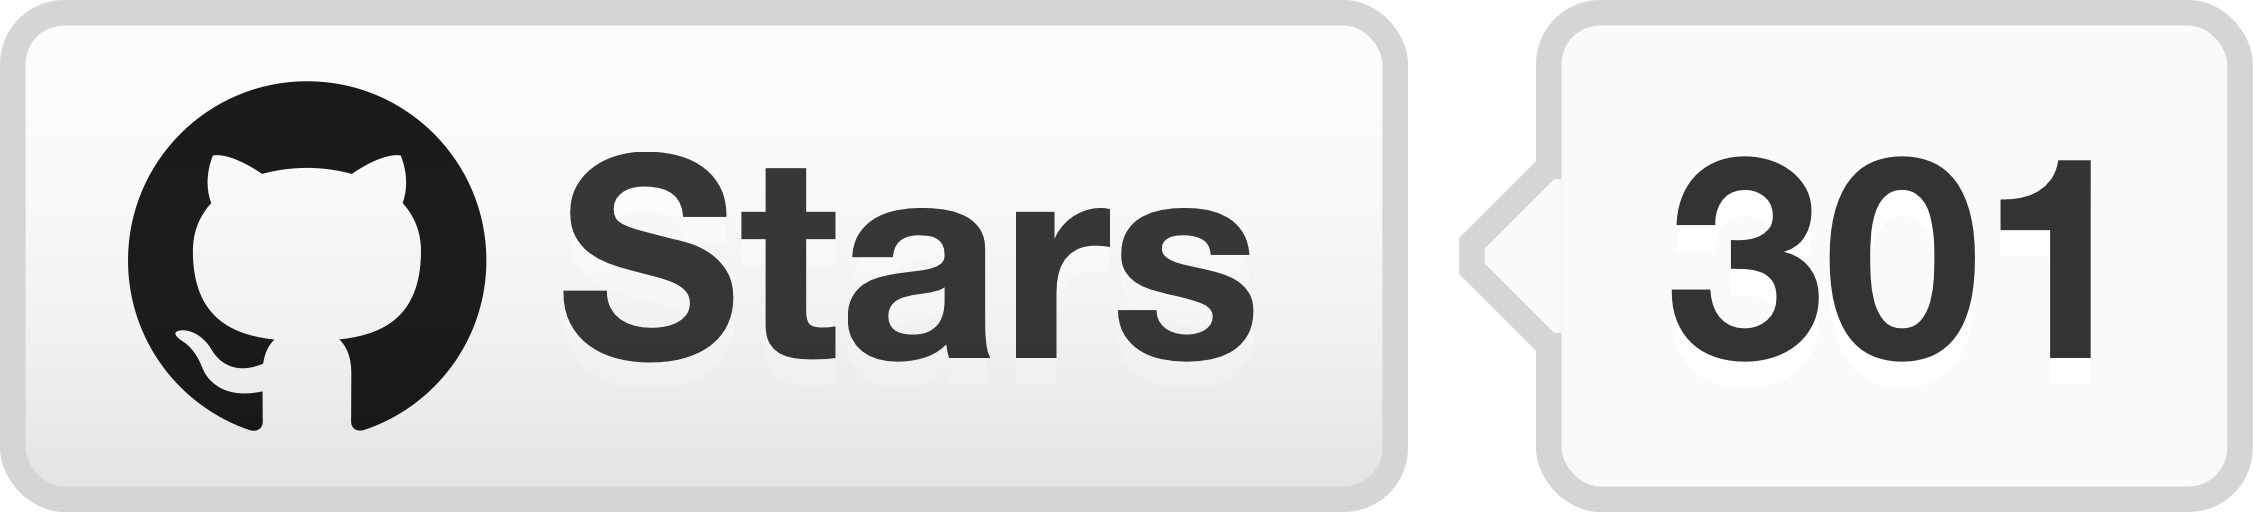
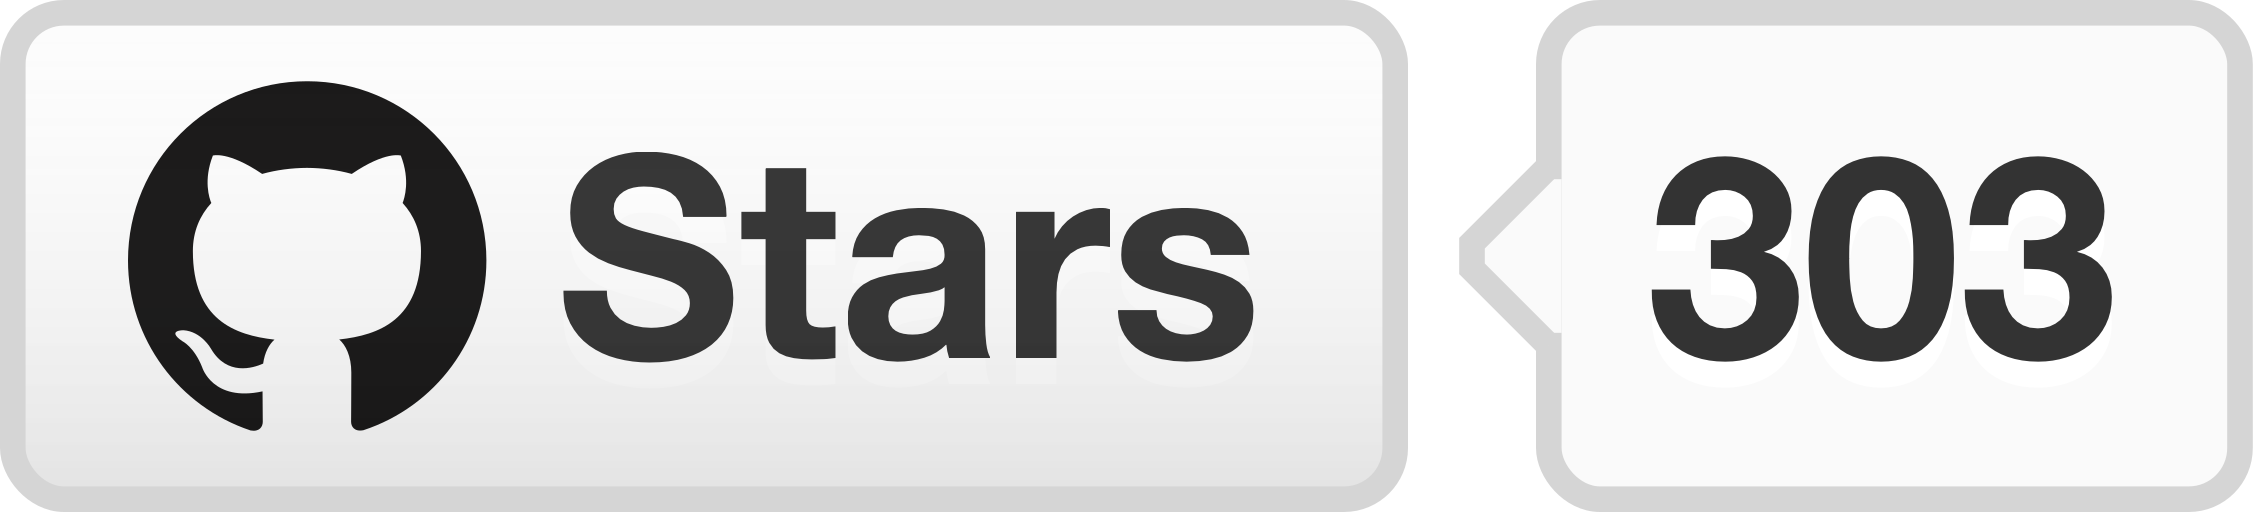
added new pngs

Changed region(s): [[0.7146, 0.2812, 0.9632, 0.7188]]

diff --git a/themes/myacademic/layouts/partials/widgets/about.html b/themes/myacademic/layouts/partials/widgets/about.html
@@ -89,7 +89,7 @@
 
     <!-- {{ $person_page.Content}} -->
     <p>
-      Gordon Qian is a Senior Research Scientist at Snap Inc. with hands-on experience in generative models across images, video, and 3D. He is a member of the video generation team, where he works on pretraining and post-training for 5B to 30B VLM-diffusion models. Previously, he served as tech lead for personalized generation, building end-to-end systems spanning large-scale data curation, model post-training, model evaluation, and product deployment. He earned his Ph.D. in Computer Science from KAUST, advised by Prof. Bernard Ghanem.
+      Gordon Guocheng Qian is a Senior Research Scientist at Snap Inc. with hands-on experience in generative models across images, video, and 3D. He is a member of the video generation team, where he works on pretraining and post-training for 5B to 30B VLM-diffusion models. Previously, he served as tech lead for personalized generation, building end-to-end systems spanning large-scale data curation, model post-training, model evaluation, and product deployment. He earned his Ph.D. in Computer Science from KAUST, advised by Prof. Bernard Ghanem.
       He has authored 20+ top-tier publications with 3,500+ citations, filed six patents, and shipped three research innovations to Snapchat products, including Dreams, EasyLens, and AI Lens, impacting 900M+ monthly active users.
       His representative works include <a target="_blank" href="https://arxiv.org/abs/2206.04670">PointNeXt</a> (NeurIPS, 1.2K+ citations, 1K+ GitHub stars), <a target="_blank" href="https://guochengqian.github.io/project/magic123/">Magic123</a> (ICLR, 450+ citations, 1.6K+ GitHub stars), and <a target="_blank" href="https://snap-research.github.io/Omni-ID/">Omni-ID</a> (CVPR, product integrated, patent filed). His research interests include streamable and unified multimodal understanding and generation. He serves as an Area Chair for ICLR 2026.
       <br>

diff --git a/update_cites.py b/update_cites.py
@@ -10,18 +10,70 @@ https://github.com/WenjieDu/Google_Scholar_Badge_Generator/tree/main
 from __future__ import annotations
 
 import csv
+import ctypes.util
 import os
 from pathlib import Path
 
 import gsbg  # Google Scholar Badge Generator
 import requests  # type: ignore
-import cairosvg  # type: ignore
+
+
+def _prefer_homebrew_cairo() -> None:
+    """
+    Help cairocffi find Homebrew's Cairo dylib on macOS.
+
+    Apple's Command Line Tools Python does not always search /opt/homebrew/lib
+    or /usr/local/lib via ctypes.util.find_library().
+    """
+    original_find_library = ctypes.util.find_library
+    cairo_paths = (
+        Path("/opt/homebrew/lib/libcairo.2.dylib"),
+        Path("/usr/local/lib/libcairo.2.dylib"),
+    )
+
+    def find_library(name: str) -> str | None:
+        if name in {"cairo", "cairo-2", "libcairo-2"}:
+            for path in cairo_paths:
+                if path.exists():
+                    return str(path)
+        return original_find_library(name)
+
+    ctypes.util.find_library = find_library
+
+
+_original_find_library = ctypes.util.find_library
+_prefer_homebrew_cairo()
+try:
+    import cairosvg  # type: ignore
+except Exception:
+    cairosvg = None
+finally:
+    ctypes.util.find_library = _original_find_library
 
 ROOT = Path(__file__).resolve().parent
 # Source-of-truth CSV exposed on the website for download.
 CSV_PATH = ROOT / "static" / "files" / "publications.csv"
 # Directory in the website where we cache rendered badge PNGs.
 BADGE_DIR = ROOT / "static" / "img" / "pub"
+
+# Scholar links for publications that are missing this field in the CSV.
+GOOGLE_SCHOLAR_LINKS_BY_SLUG = {
+    "pami2021deepgcns": (
+        "https://scholar.google.com/citations?view_op=view_citation&hl=en"
+        "&user=DUDaxg4AAAAJ&pagesize=100"
+        "&citation_for_view=DUDaxg4AAAAJ:9yKSN-GCB0IC"
+    ),
+}
+
+
+def svg_to_png(svg_bytes: bytes, output_height: int = 512) -> bytes:
+    """Render SVG bytes to PNG with CairoSVG."""
+    if cairosvg is None:
+        raise RuntimeError(
+            "Cannot render SVG badges: CairoSVG cannot load native Cairo. "
+            "Install it with `brew install cairo` on macOS."
+        )
+    return cairosvg.svg2png(bytestring=svg_bytes, output_height=output_height)
 
 
 def github_stars_badge(repo: str) -> str:
@@ -106,6 +158,7 @@ def main() -> None:
 
             github_repo = (row.get("github_repo") or "").strip()
             scholar_link = (row.get("google_scholar_link") or "").strip()
+            scholar_link = scholar_link or GOOGLE_SCHOLAR_LINKS_BY_SLUG.get(slug, "")
             prev_cites = row.get("google_scholar_cites") or ""
             prev_stars = row.get("github_stars") or ""
 
@@ -139,7 +192,7 @@ def main() -> None:
                 resp.raise_for_status()
                 local_name = f"{slug}_cites.png"
                 svg_bytes = resp.content
-                png_bytes = cairosvg.svg2png(bytestring=svg_bytes, output_height=512)
+                png_bytes = svg_to_png(svg_bytes, output_height=512)
                 (BADGE_DIR / local_name).write_bytes(png_bytes)
                 badge_local = f"/img/pub/{local_name}"
                 
@@ -152,7 +205,7 @@ def main() -> None:
                 resp.raise_for_status()
                 local_name_flat = f"{slug}_cites_flat.png"
                 svg_bytes = resp.content
-                png_bytes = cairosvg.svg2png(bytestring=svg_bytes, output_height=512)
+                png_bytes = svg_to_png(svg_bytes, output_height=512)
                 (BADGE_DIR / local_name_flat).write_bytes(png_bytes)
                 badge_local_flat = f"/img/pub/{local_name_flat}"
 
@@ -170,7 +223,7 @@ def main() -> None:
                 resp.raise_for_status()
                 local_name = f"{slug}_stars.png"
                 svg_bytes = resp.content
-                png_bytes = cairosvg.svg2png(bytestring=svg_bytes, output_height=512)
+                png_bytes = svg_to_png(svg_bytes, output_height=512)
                 (BADGE_DIR / local_name).write_bytes(png_bytes)
                 stars_local = f"/img/pub/{local_name}"
                 
@@ -183,7 +236,7 @@ def main() -> None:
                 resp.raise_for_status()
                 local_name_flat = f"{slug}_stars_flat.png"
                 svg_bytes = resp.content
-                png_bytes = cairosvg.svg2png(bytestring=svg_bytes, output_height=512)
+                png_bytes = svg_to_png(svg_bytes, output_height=512)
                 (BADGE_DIR / local_name_flat).write_bytes(png_bytes)
                 stars_local_flat = f"/img/pub/{local_name_flat}"
 
@@ -191,6 +244,7 @@ def main() -> None:
             # Update row fields.
             row["github_stars"] = str(stars_count or "")
             row["github_stars_badge"] = stars_url
+            row["google_scholar_link"] = scholar_link
             row["google_scholar_cites"] = str(cites_value or "")
             row["google_scholar_badge_url"] = badge_url
             row["google_scholar_badge_local"] = badge_local
@@ -208,12 +262,10 @@ def main() -> None:
             rows.append(row)
 
     with CSV_PATH.open("w", newline="", encoding="utf-8") as f:
-        writer = csv.DictWriter(f, fieldnames=fieldnames)
+        writer = csv.DictWriter(f, fieldnames=fieldnames, lineterminator="\n")
         writer.writeheader()
         writer.writerows(rows)
 
 
 if __name__ == "__main__":
     main()
-
-

diff --git a/content/authors/admin/_index.md b/content/authors/admin/_index.md
@@ -1,7 +1,7 @@
 ---
 
 # Display name
-name: Gordon (Guocheng) Qian
+name: Gordon Guocheng Qian
 namecn: 钱国成
 
 # # Username (this should match the folder name)
@@ -29,7 +29,7 @@ address:
   country: United States
 
 # Short bio (displayed in user profile at end of posts)
-bio: Guocheng Qian (Gordon) is a Senior Research Scientist at Snap Inc. working on generative models across image, video, and 3D.
+bio: Gordon Guocheng Qian is a Senior Research Scientist at Snap Inc. working on generative models across image, video, and 3D.
 
 education:
   courses:

diff --git a/static/posts/qqq-vs-spy/post.md b/static/posts/qqq-vs-spy/post.md
@@ -1,0 +1,14 @@
+# Twitter post: QQQ vs SPY DCA backtest
+
+**Tweet (attach chart.png):**
+
+Should you DCA into QQQ or SPY? I backtested $10k/month using real dividend-adjusted data, 2000–2026.
+
+QQQ won at every start year (2000/05/10/15/20): IRR 19.3%/yr vs 14.5%, final wealth 1.2–2.0x of SPY.
+
+The catch: the entire edge comes from post-2010. In 2000–2009 QQQ did -6.9%/yr vs SPY's -1.1%.
+
+Code + data: github.com/guochengqian/qqq-vs-spy
+
+---
+*~270 chars with the URL counted as 23. Chart: chart.png in this folder.*

diff --git a/content/publication/siga2025composeme/index.md b/content/publication/siga2025composeme/index.md
@@ -6,13 +6,13 @@ draft = false
 
 # Authors. Comma separated list, e.g. ["Bob Smith", "__**David Jones**__"].
 authors = [
-"__**Guocheng Gordon Qian**__", 
-"Daniil Ostashev", 
-"Egor Nemchinov", 
-"Avihay Assouline", 
-"Sergey Tulyakov", 
-"Kuan-Chieh Jackson Wang", 
-"Kfir Aberman", 
+"__**Gordon Guocheng Qian**__",
+"Daniil Ostashev",
+"Egor Nemchinov",
+"Avihay Assouline",
+"Sergey Tulyakov",
+"Kuan-Chieh Jackson Wang",
+"Kfir Aberman",
 ]
 
 # Publication type.

diff --git a/content/publication/neurips2025sr-training/index.md b/content/publication/neurips2025sr-training/index.md
@@ -6,9 +6,9 @@ draft = false
 
 # Authors. Comma separated list, e.g. ["Bob Smith", "__**David Jones**__"].
 authors = [
-"Anujraaj Goyal", 
-"__**Guocheng Gordon Qian**__<sup>†</sup>", 
-"Huseyin Coskun", 
+"Anujraaj Goyal",
+"__**Gordon Guocheng Qian**__<sup>†</sup>",
+"Huseyin Coskun",
 "Aarush Gupta",
 "Himmy Tam",
 "Daniil Ostashev",
@@ -98,4 +98,3 @@ math = true
   # preview_only = true
 
 +++
-
